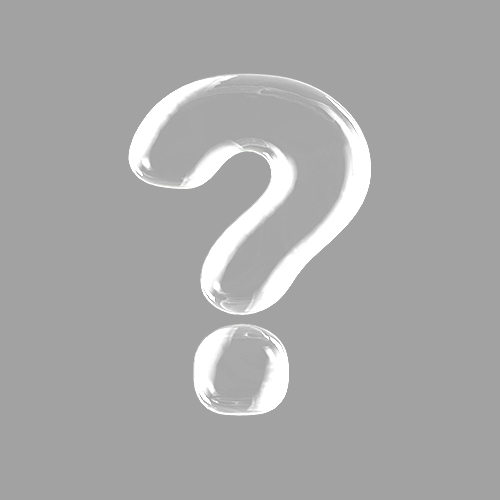
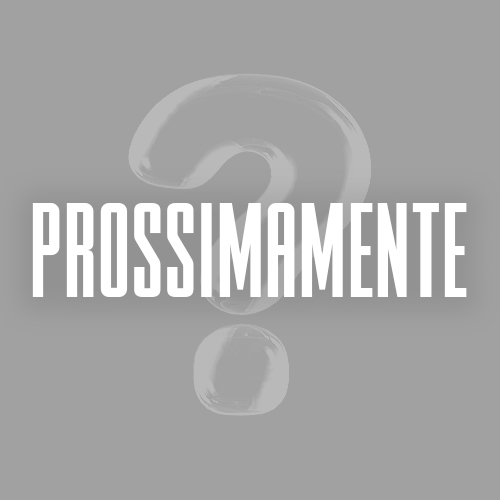
Aggiunte altre partite e modificate icone gioco2 e prossimamente

Changed region(s): [[0.06, 0.18, 0.93, 0.84], [0.24, 0.15, 0.63, 0.36]]

diff --git a/src/app/four-images-one-word/four-images-one-word.component.ts b/src/app/four-images-one-word/four-images-one-word.component.ts
@@ -26,7 +26,11 @@ export class FourImagesOneWordComponent implements OnInit {
     "Paolo",
     "Adamo",
     "Ebrei",
-    "Comandamenti"
+    "Comandamenti",
+    "Apocalisse",
+    "Vangeli",
+    "Pastore",
+    "Salmi"
   ].map(w => w.toUpperCase());
 
   constructor(public payload: PayloadService) { }
